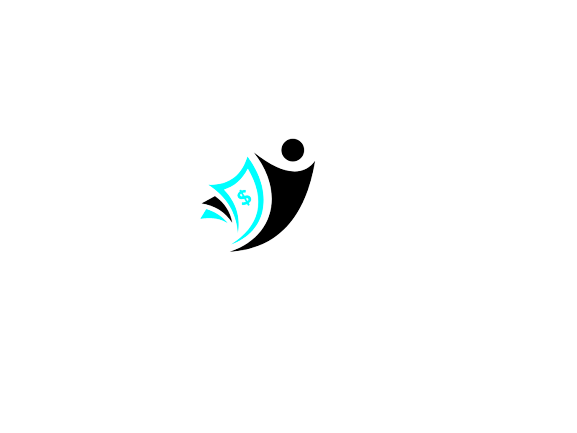
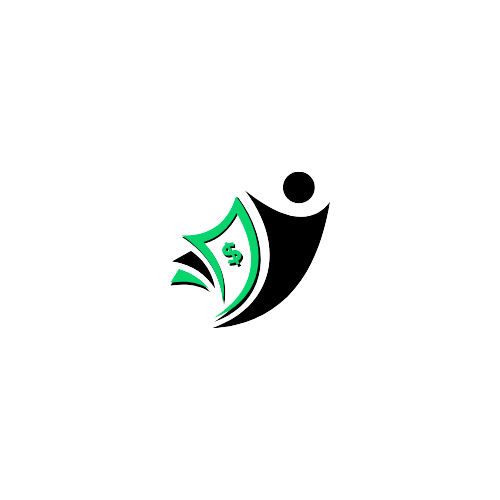
autalizando design do app

Changed region(s): [[0.33, 0.3002, 0.66, 0.6605]]

diff --git a/AppBancoDigital/AppBancoDigital/View/Cadastro.xaml b/AppBancoDigital/AppBancoDigital/View/Cadastro.xaml
@@ -2,22 +2,15 @@
 <ContentPage xmlns="http://xamarin.com/schemas/2014/forms"
              xmlns:x="http://schemas.microsoft.com/winfx/2009/xaml"
              x:Class="AppBancoDigital.View.Cadastro"
-             xmlns:control="clr-namespace:Xamarin.Forms.MaskedEntry;assembly=Xamarin.Forms.MaskedEntry" xmlns:local="clr-namespace:AppBancoDigital">
+             xmlns:control="clr-namespace:Xamarin.Forms.MaskedEntry;assembly=Xamarin.Forms.MaskedEntry" xmlns:local="clr-namespace:AppBancoDigital"
+             Background="#00FF7F">
 
-    <ContentPage.Background>
-        <LinearGradientBrush>
-            <GradientStop Color="DarkBlue"
-                          Offset="0.001"/>
-            <GradientStop Color="#FF00FF"
-                          Offset="2"/>
-        </LinearGradientBrush>
-    </ContentPage.Background>
     <ContentPage.Content>
 
         <StackLayout VerticalOptions="Center">
 
-            <Image x:Name="logo" Scale="2"/>
-            <Label Text="CADASTRO" FontSize="Title" HorizontalOptions="Center" TextColor="#00FFFF"/>
+            <Image x:Name="logo" Scale="1.5"/>
+            <Label Text="CADASTRO" FontSize="Title" HorizontalOptions="Center" TextColor="Black"/>
             <Label Text=""/>
 
 
@@ -25,26 +18,26 @@
                    x:Name="form_cadastro"
                    VerticalOptions="CenterAndExpand"
                    BackgroundColor="Transparent"
-                   BorderColor="White"
+                   BorderColor="Black"
                    Margin="20">
                 <StackLayout>
-                    <Label Text="Nome:" TextColor="White"/>
+                    <Label Text="Nome:" TextColor="Black"/>
                     <Entry x:Name="txt_nome"
                            Keyboard="Default"
-                           TextColor="White"/>
-                    <Label Text="CPF:" TextColor="White"/>
-                    <control:MaskedEntry x:Name="txt_cpf" TextColor="White" Keyboard="Numeric" FontAttributes="Bold" Mask="XXX.XXX.XXX-XX"/>
-                    <Label Text="Senha:" TextColor="White"/>
+                           TextColor="Black"/>
+                    <Label Text="CPF:" TextColor="Black"/>
+                    <control:MaskedEntry x:Name="txt_cpf" TextColor="Black" Keyboard="Numeric" FontAttributes="Bold" Mask="XXX.XXX.XXX-XX"/>
+                    <Label Text="Senha:" TextColor="Black"/>
                     <Entry x:Name="txt_senha"
                            Keyboard="Default"
                            IsPassword="True"
                            ReturnType="Done"
-                           TextColor="White"/>
-                    <Label Text="Data de Nascimento:" TextColor="White"/>
+                           TextColor="Black"/>
+                    <Label Text="Data de Nascimento:" TextColor="Black"/>
                     <DatePicker x:Name="dtcpk_nascimento"
                                 Format="dd/MM/yyyy"
                                 DateSelected="dtcpk_nascimento_DateSelected"
-                                TextColor="White"/>
+                                TextColor="Black"/>
                 </StackLayout>
             </Frame>
 
@@ -52,15 +45,15 @@
                     TextTransform="None" HorizontalOptions="Center"
                     Text="Cadastrar" CornerRadius="20"
                     BorderWidth="1" BorderColor="Black"
-                    BackgroundColor="#00FFFF" Clicked="btn_cadastro_Clicked"/>
+                    BackgroundColor="#08D46D" Clicked="btn_cadastro_Clicked"/>
 
             <Button x:Name="btn_voltar" TextColor="Black"
                     TextTransform="None" HorizontalOptions="StartAndExpand"
                     Text="Voltar" CornerRadius="20"
                     BorderWidth="1" BorderColor="Black" Margin="20"
-                    BackgroundColor="#00FFFF" Clicked="btn_voltar_Clicked"/>
+                    BackgroundColor="#08D46D" Clicked="btn_voltar_Clicked"/>
         </StackLayout>
-
-
+        
     </ContentPage.Content>
+
 </ContentPage>

diff --git a/AppBancoDigital/AppBancoDigital/View/Login.xaml b/AppBancoDigital/AppBancoDigital/View/Login.xaml
@@ -3,22 +3,15 @@
              xmlns:x="http://schemas.microsoft.com/winfx/2009/xaml"
              xmlns:control="clr-namespace:Xamarin.Forms.MaskedEntry;assembly=Xamarin.Forms.MaskedEntry"
              x:Class="AppBancoDigital.View.Login"
-             Title="Login">
-    <ContentPage.Background>
-        <LinearGradientBrush>
-            <GradientStop Color="DarkBlue"
-                          Offset="0.001"/>
-            <GradientStop Color="#FF00FF"
-                          Offset="2"/>
-        </LinearGradientBrush>
-    </ContentPage.Background>
+             Title="Login"
+             Background="#00FF7F">
 
     <ContentPage.Content>
 
         <StackLayout VerticalOptions="Center">
 
-            <Image x:Name="logo" Scale="2"/>
-            <Label Text="LOGIN" FontSize="Title" HorizontalOptions="Center" TextColor="#00FFFF"/>
+            <Image x:Name="logo" Scale="1.5"/>
+            <Label Text="LOGIN" FontSize="Title" HorizontalOptions="Center" TextColor="Black"/>
             <Label Text=""/>
             <Label Text=""/>
 
@@ -26,14 +19,14 @@
                    x:Name="form_login"
                    VerticalOptions="CenterAndExpand"
                    BackgroundColor="Transparent"
-                   BorderColor="White"
+                   BorderColor="Black"
                    Margin="20">
                 <StackLayout>
-                    <Label Text="CPF" TextColor="White"/>
-                    <control:MaskedEntry x:Name="txt_cpf" Keyboard="Numeric" TextColor="White" FontAttributes="Bold" Mask="XXX.XXX.XXX-XX"/>
-                    <Label Text="Senha" TextColor="White"/>
+                    <Label Text="CPF" TextColor="Black"/>
+                    <control:MaskedEntry x:Name="txt_cpf" Keyboard="Numeric" TextColor="Black" FontAttributes="Bold" Mask="XXX.XXX.XXX-XX"/>
+                    <Label Text="Senha" TextColor="Black"/>
                     <Entry x:Name="txt_senha"
-                           TextColor="White"
+                           TextColor="Black"
                            Keyboard="Default"
                            IsPassword="True"
                            ReturnType="Done"/>
@@ -44,12 +37,12 @@
                     TextTransform="None" HorizontalOptions="Center"
                     Text="Entrar" CornerRadius="20"
                     BorderWidth="1" BorderColor="Black"
-                    BackgroundColor="#00FFFF" Clicked="btn_login_Clicked"/>
+                    BackgroundColor="#08D46D" Clicked="btn_login_Clicked"/>
 
 
             <Button x:Name="btn_CriarConta" Text="Não tem uma conta? Criar uma conta."
                     FontAttributes="Italic" TextTransform="None"
-                    BackgroundColor="Transparent" TextColor="#fff"
+                    BackgroundColor="Transparent" TextColor="Black"
                     CornerRadius="20" HorizontalOptions="Center"
                     Clicked="btn_CriarConta_Clicked"/>
             <Label Text=""/>
@@ -58,7 +51,7 @@
                     TextTransform="None" HorizontalOptions="StartAndExpand"
                     Text="Voltar" CornerRadius="20"
                     BorderWidth="1" BorderColor="Black" Margin="20"
-                    BackgroundColor="#00FFFF" Clicked="btn_voltar_Clicked"/>
+                    BackgroundColor="#08D46D" Clicked="btn_voltar_Clicked"/>
             
 
         </StackLayout>

diff --git a/AppBancoDigital/AppBancoDigital/View/Menu.xaml b/AppBancoDigital/AppBancoDigital/View/Menu.xaml
@@ -2,27 +2,20 @@
 <ContentPage xmlns="http://xamarin.com/schemas/2014/forms"
              xmlns:x="http://schemas.microsoft.com/winfx/2009/xaml"
              x:Class="AppBancoDigital.View.Menu"
-             Title="Menu">
-    <ContentPage.Background>
-        <LinearGradientBrush>
-            <GradientStop Color="DarkBlue"
-                          Offset="0.001"/>
-            <GradientStop Color="#FF00FF"
-                          Offset="2"/>
-        </LinearGradientBrush>
-    </ContentPage.Background>
+             Title="Menu"
+             Background="#00FF7F">
     <ContentPage.Content>
         <StackLayout VerticalOptions="Center">
 
-            <Image x:Name="logo" Scale="2"/>
+            <Image x:Name="logo" Scale="1.5"/>
             <Label Text=""/>
             <Label Text=""/> 
 
             <Button x:Name="btn_pag_login" TextColor="Black"
                     TextTransform="None" HorizontalOptions="Center"
-                    Text="Iníciar" CornerRadius="20"
+                    Text="Iniciar" CornerRadius="20"
                     BorderWidth="1" BorderColor="Black"
-                    BackgroundColor="#00FFFF" Clicked="btn_pag_login_Clicked"/>
+                    BackgroundColor="#08D46D" Clicked="btn_pag_login_Clicked"/>
         </StackLayout>
     </ContentPage.Content>
 </ContentPage>

diff --git a/AppBancoDigital/AppBancoDigital/View/Conta.xaml b/AppBancoDigital/AppBancoDigital/View/Conta.xaml
@@ -1,24 +1,17 @@
 <?xml version="1.0" encoding="utf-8" ?>
 <ContentPage xmlns="http://xamarin.com/schemas/2014/forms"
              xmlns:x="http://schemas.microsoft.com/winfx/2009/xaml"
-             x:Class="AppBancoDigital.View.Conta">
-    <ContentPage.Background>
-        <LinearGradientBrush>
-            <GradientStop Color="DarkBlue"
-                          Offset="0.001"/>
-            <GradientStop Color="#FF00FF"
-                          Offset="2"/>
-        </LinearGradientBrush>
-    </ContentPage.Background>
+             x:Class="AppBancoDigital.View.Conta"
+             Background="#00FF7F">
 
-        <Grid RowDefinitions="100, 100, 100, 100, 100"
+    <Grid RowDefinitions="100, 100, 100, 100, 100"
               ColumnDefinitions="100, *">
 
-            <Image x:Name="logo" Grid.Row="0" Grid.Column="0" Scale="2"/>
+            <Image x:Name="logo" Grid.Row="0" Grid.Column="0" Scale="1.5"/>
 
             <!--="{Binding txt_nome}"-->
             <Label Text="Bruno Righi" FontSize="Title"
-                   TextColor="#00FFFF"
+                   TextColor="Black"
                    Grid.Row="0"
                    Grid.Column="1"
                    Margin="30"

diff --git a/AppBancoDigital/AppBancoDigital/View/Login.xaml.cs b/AppBancoDigital/AppBancoDigital/View/Login.xaml.cs
@@ -47,8 +47,6 @@ namespace AppBancoDigital.View
 
         private async void btn_login_Clicked(object sender, EventArgs e)
         {
-             await btn_login.ScaleTo(1.2, 100, Easing.CubicOut);
-             await btn_login.ScaleTo(1, 100, Easing.CubicIn);
          
             string cpf = txt_cpf.Text;
             string senha = txt_senha.Text;

diff --git a/AppBancoDigital/AppBancoDigital/App.xaml.cs b/AppBancoDigital/AppBancoDigital/App.xaml.cs
@@ -10,7 +10,7 @@ namespace AppBancoDigital
         {
             InitializeComponent();
 
-            MainPage = new View.Conta();
+            MainPage = new View.Menu();
         }
 
         protected override void OnStart()
